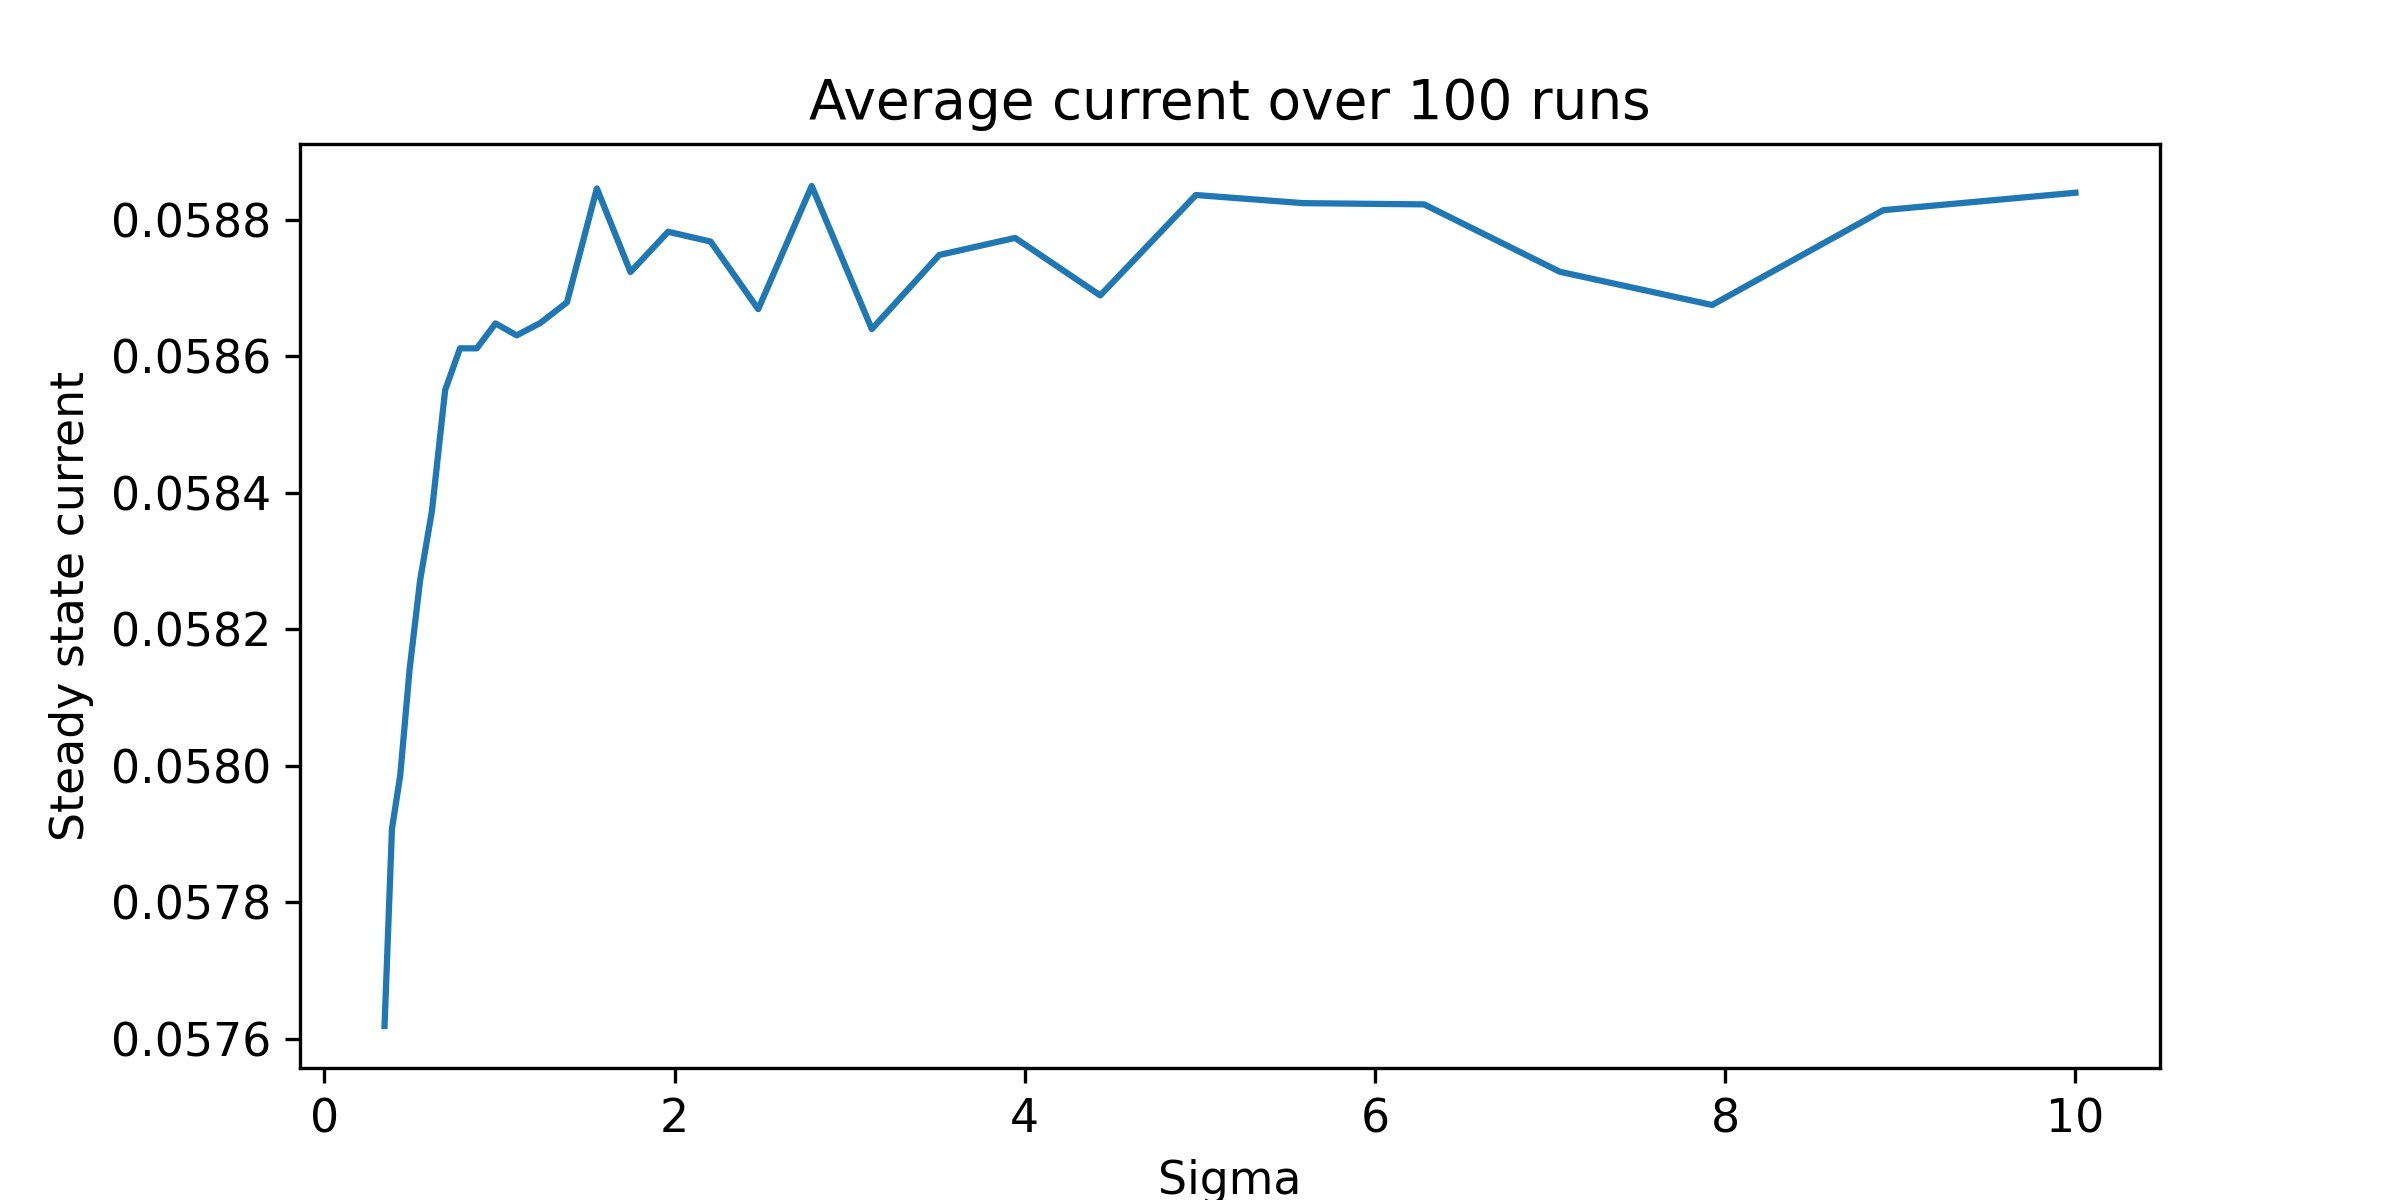
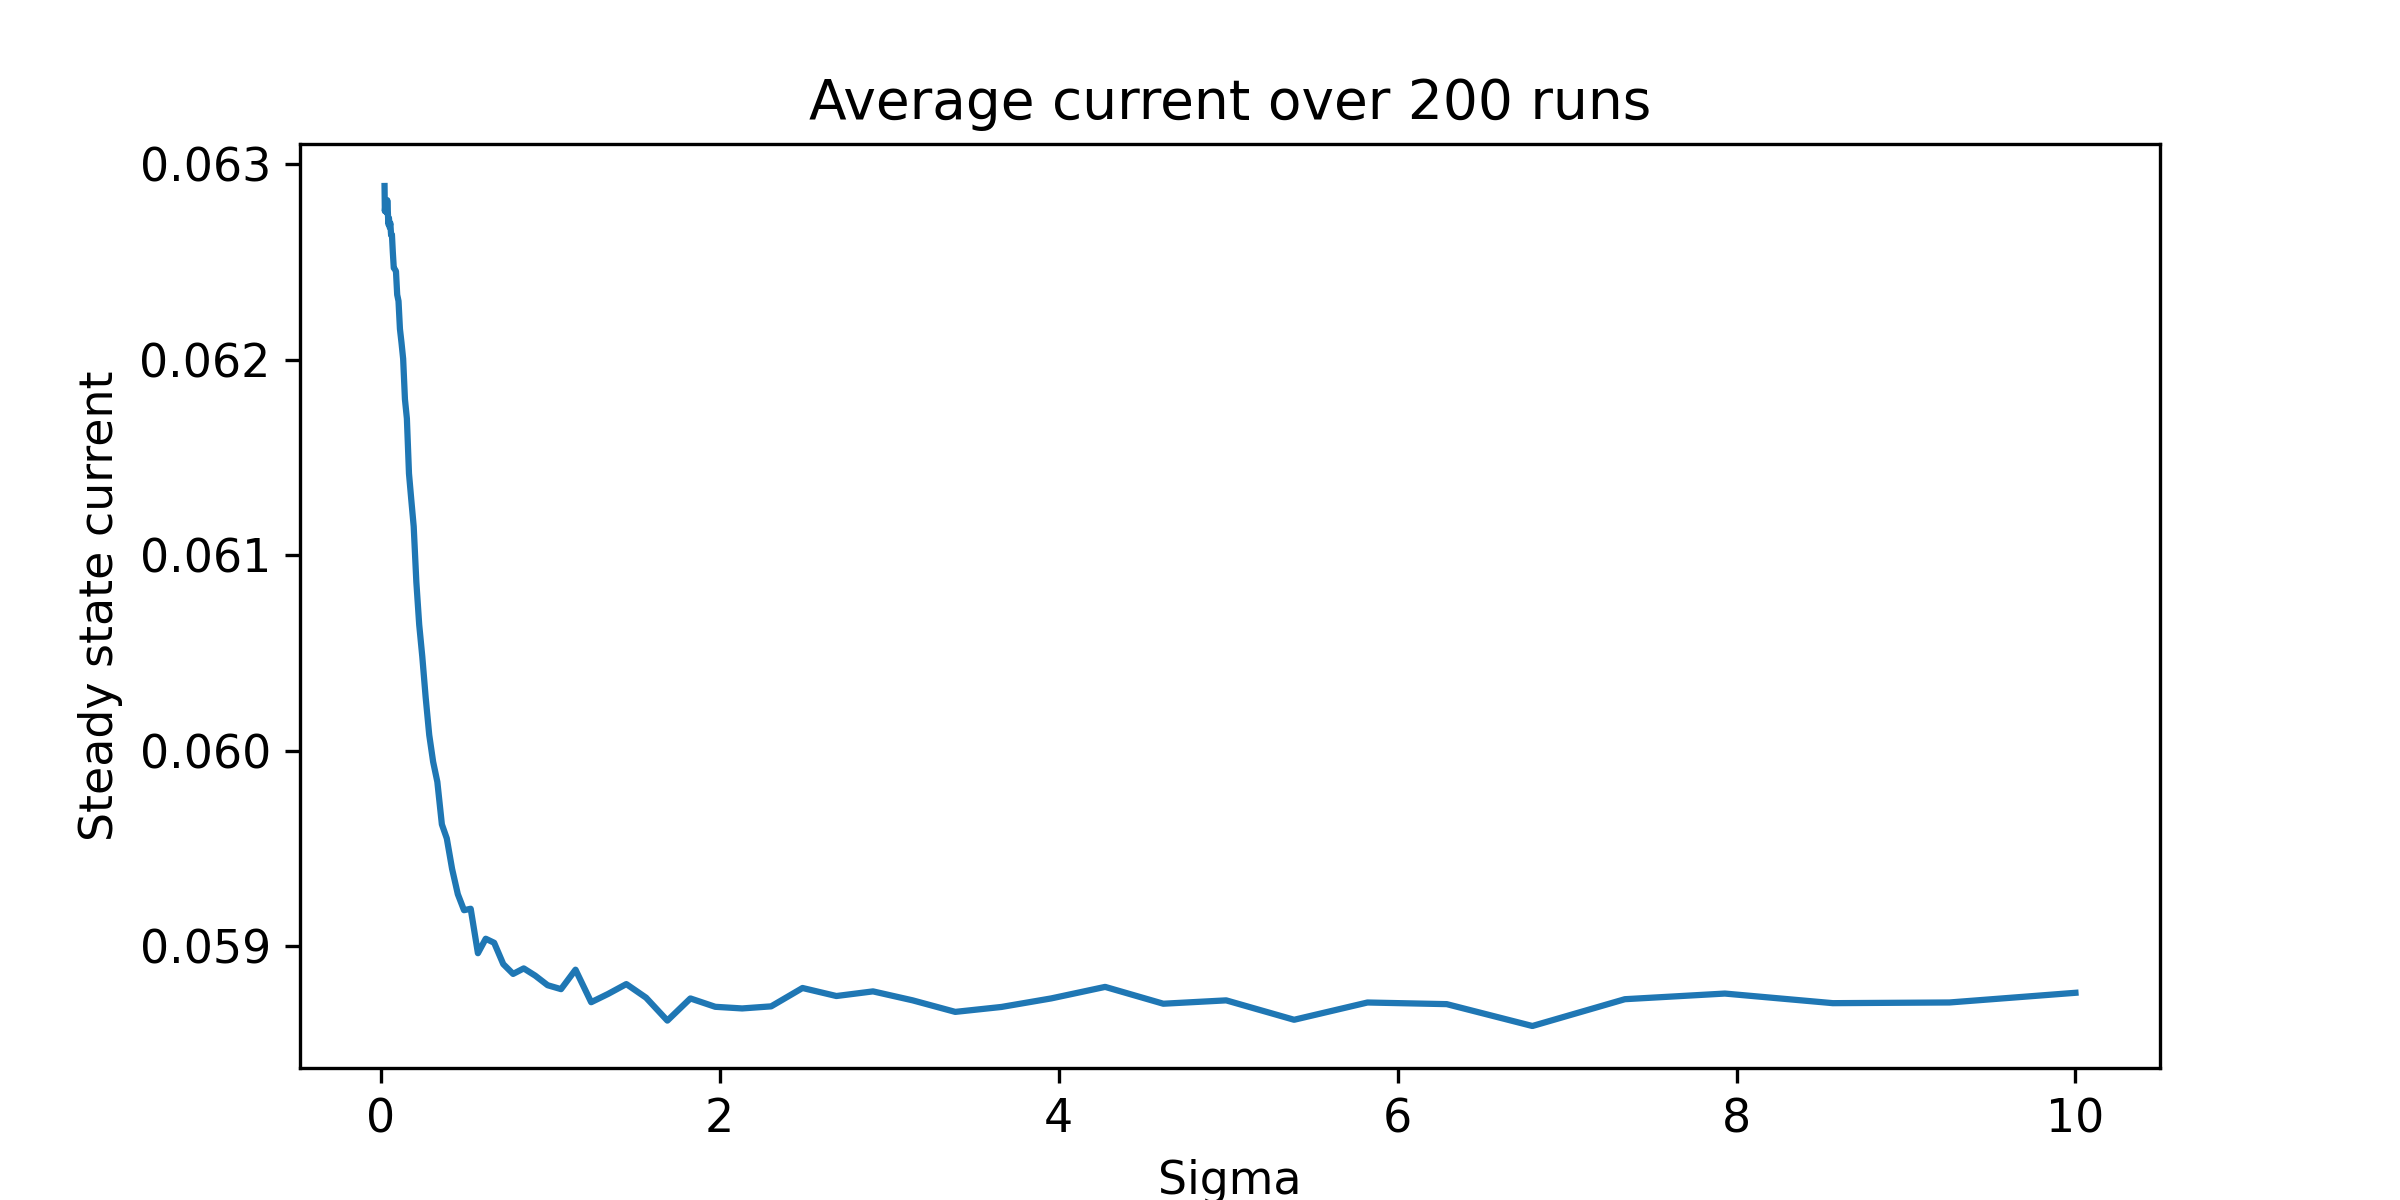
fixed sigma vs current

diff --git a/TASEP Classical (no RL)/classical_with_speeds.py b/TASEP Classical (no RL)/classical_with_speeds.py
@@ -12,6 +12,14 @@ def truncated_normal_single(mean, std_dev):
 
 
 @njit
+def truncated_normal(mean, std_dev, size):
+    samples = np.zeros(size, dtype=np.float32)
+    for i in range(size):
+        samples[i] = truncated_normal_single(mean, std_dev)
+    return samples
+
+
+@njit
 def simulate(sigma, log=True):
     currents_arrays = []
     for iwalk in range(runsNumber):
@@ -23,7 +31,7 @@ def simulate(sigma, log=True):
         system[::2] = 1
         # Give each particle a random speed (between 0 and 1)
         # from a uniform distribution
-        speeds = np.random.random(N)
+        speeds = truncated_normal(0.5, sigma, N)
         system[system == 1] = speeds
         system = system.reshape((Lx, Ly))
         currents = []
@@ -48,7 +56,7 @@ def simulate(sigma, log=True):
                     # check if there is a particle in front
                     if system[x, y_next] == 0:
                         # throw second dice from truncated normal that has to be less than the speed
-                        dice2 = truncated_normal_single(0.5, sigma)
+                        dice2 = np.random.random()
                         if dice2 < system[x, y]:
                             # if system[x,y] < 0.1:
                             # print("slow particle moved")
@@ -98,50 +106,16 @@ def simulate_sigma_vs_steady_state_current(sigmas):
         i += 1
         currents_arrays = simulate(sigma, log=False)
         currents_single = np_mean(np.array(currents_arrays), axis=0)
-        currents.append(np.mean(currents_single[-100:]))
+        # print(len(currents_single))
+        currents.append(np.mean(currents_single[-int(len(currents_single)/3):]))
     return currents
 
 
-if __name__ == '__main__':
-    totalMCS = 70  # Total number of Monte Carlo steps per single run
-    runsNumber = 100  # Number of runs to average over
-    Lx = 128  # Number of rows , width
-    Ly = 128  # Number of columns , length
-    N = Lx * Ly // 2
-    size = Lx * Ly
-    current_averaging_time = int(N / 3) - 1  # Number of MCS to average over
-
-    plt.rcParams["figure.figsize"] = (8, 4)
-    plt.rcParams["figure.dpi"] = 300
-    plt.rcParams["font.size"] = 11
-
-    # for sigma in [0.0001, 0.001, 0.1, 0.2, 0.3, 0.4, 0.5, 0.6, 5]:
-    #     currents_arrays = simulate(sigma)
-    #     times = np.arange(len(currents_arrays[0]))
-    #     # average over all runs
-    #     currents = np.mean(currents_arrays, axis=0)
-    #     # plot
-    #     plt.plot(times, currents, label=f"sigma = {sigma}")
-    # plt.legend()
-    # plt.xlabel("Time")
-    # plt.ylabel(f"Current (last {current_averaging_time} moves averaged)")
-    # plt.title(f"Average current over {runsNumber} runs")
-    # plt.savefig(f"plots/different_speeds/individual_sigmas/currents_fixed_sigma.png")
-
-    # plt.cla()
-    # sigmas = np.logspace(-4, 1, 100, dtype=np.float32)
-    # print(sigmas)
-    # currents = simulate_sigma_vs_steady_state_current(sigmas)
-    # # save data
-    # np.save("data/sigma_vs_current.npy", currents)
-    # np.save("data/sigma_vs_current_sigmas.npy", sigmas)
-    # plt.plot(sigmas, currents)
-    # plt.xlabel("Sigma")
-    # plt.ylabel(f"Current (last {current_averaging_time} moves averaged)")
-    # plt.show()
-
+def evaluate():
     currents = np.load("data/sigma_vs_current.npy")
     sigmas = np.load("data/sigma_vs_current_sigmas.npy")
+    print(len(currents))
+    plt.cla()
     plt.plot(sigmas, currents)
     plt.xlabel("Sigma (log scale)")
     plt.ylabel(f"Steady state current")
@@ -162,3 +136,52 @@ if __name__ == '__main__':
     plt.ylabel(f"ln(1/I - 1/I_0)")
     plt.title(f"Average current over {runsNumber} runs")
     plt.savefig(f"plots/different_speeds//ln_fixed_sigma.png")
+
+
+def calc_sigma_vs_current():
+    plt.cla()
+    sigmas = np.logspace(-4, 1, 150, dtype=np.float32)
+    print(sigmas)
+    currents = simulate_sigma_vs_steady_state_current(sigmas)
+    # save data
+    np.save("data/sigma_vs_current.npy", currents)
+    np.save("data/sigma_vs_current_sigmas.npy", sigmas)
+
+
+def calc_indivual_sigmas():
+    for sigma in [0.0001, 0.001, 0.1, 0.2, 0.3, 0.4, 0.5, 0.6, 5]:
+        currents_arrays = simulate(sigma)
+        times = np.arange(len(currents_arrays[0]))
+        # average over all runs
+        currents = np.mean(currents_arrays, axis=0)
+        # plot
+        plt.plot(times[10:], currents[10:], label=f"sigma = {sigma}")
+    plt.legend()
+    plt.xlabel("Time")
+    plt.ylabel(f"Current (last {current_averaging_time} moves averaged)")
+    plt.title(f"Average current over {runsNumber} runs")
+    plt.savefig(f"plots/different_speeds/individual_sigmas/currents_fixed_sigma.png")
+
+
+if __name__ == '__main__':
+    totalMCS = 70  # Total number of Monte Carlo steps per single run
+    runsNumber = 200  # Number of runs to average over
+    Lx = 128  # Number of rows , width
+    Ly = 128  # Number of columns , length
+    N = Lx * Ly // 2
+    size = Lx * Ly
+    current_averaging_time = int(N / 2) - 1  # Number of MCS to average over
+
+    plt.rcParams["figure.figsize"] = (8, 4)
+    plt.rcParams["figure.dpi"] = 300
+    plt.rcParams["font.size"] = 11
+
+    # calc_indivual_sigmas()
+    calc_sigma_vs_current()
+    evaluate()
+
+
+
+
+
+
